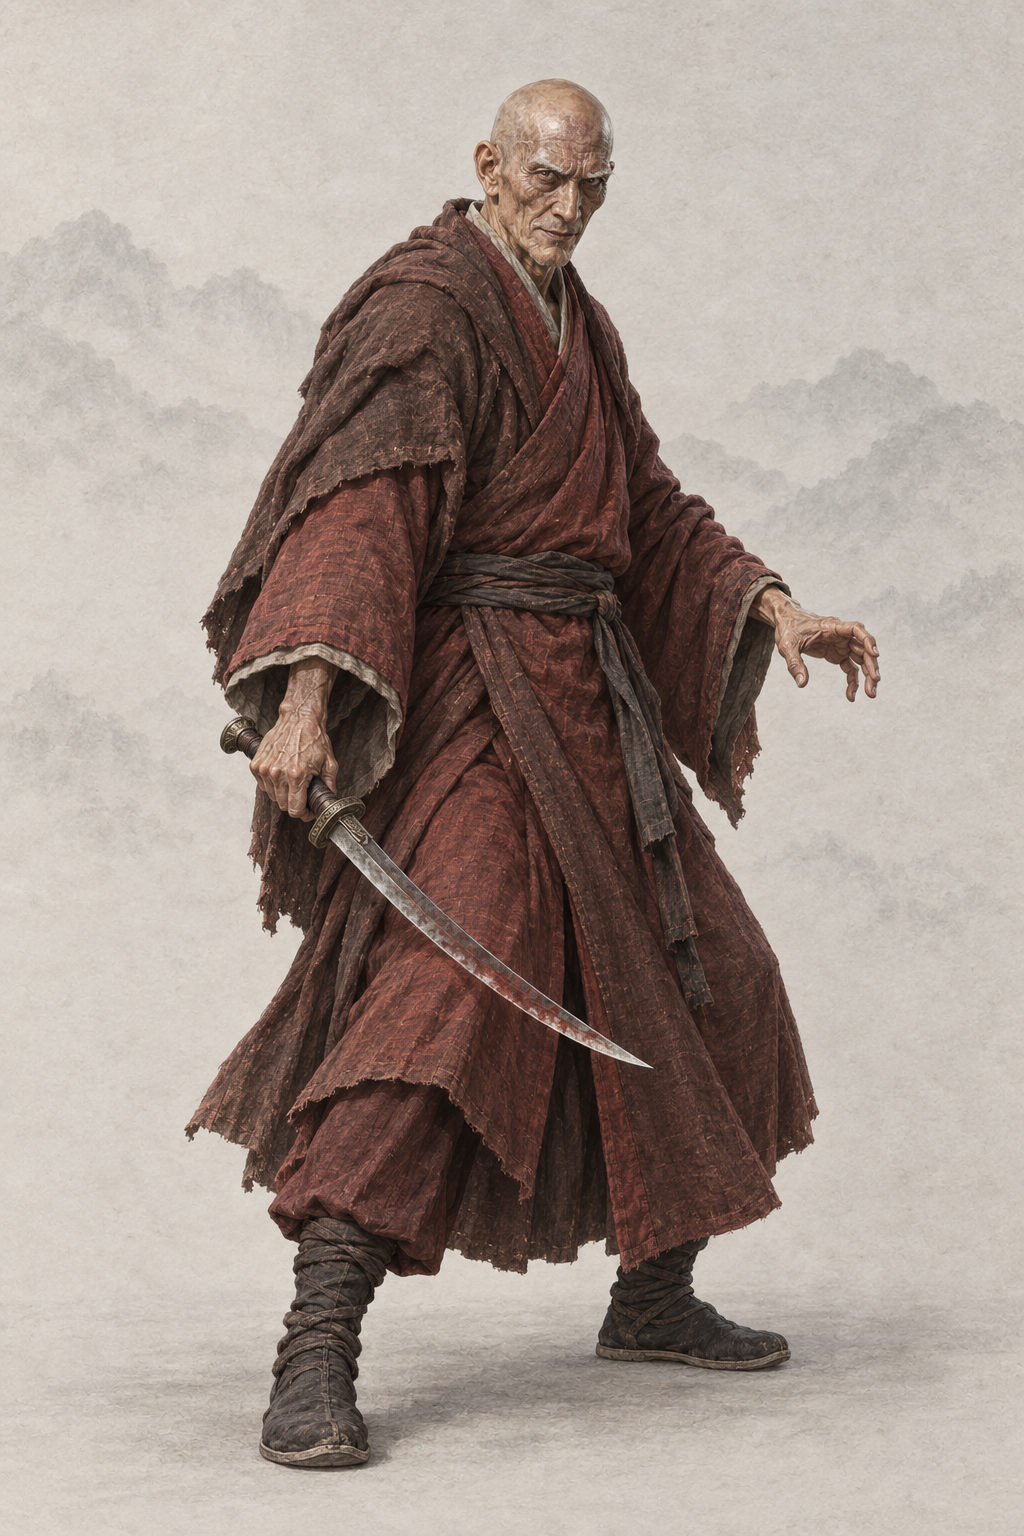
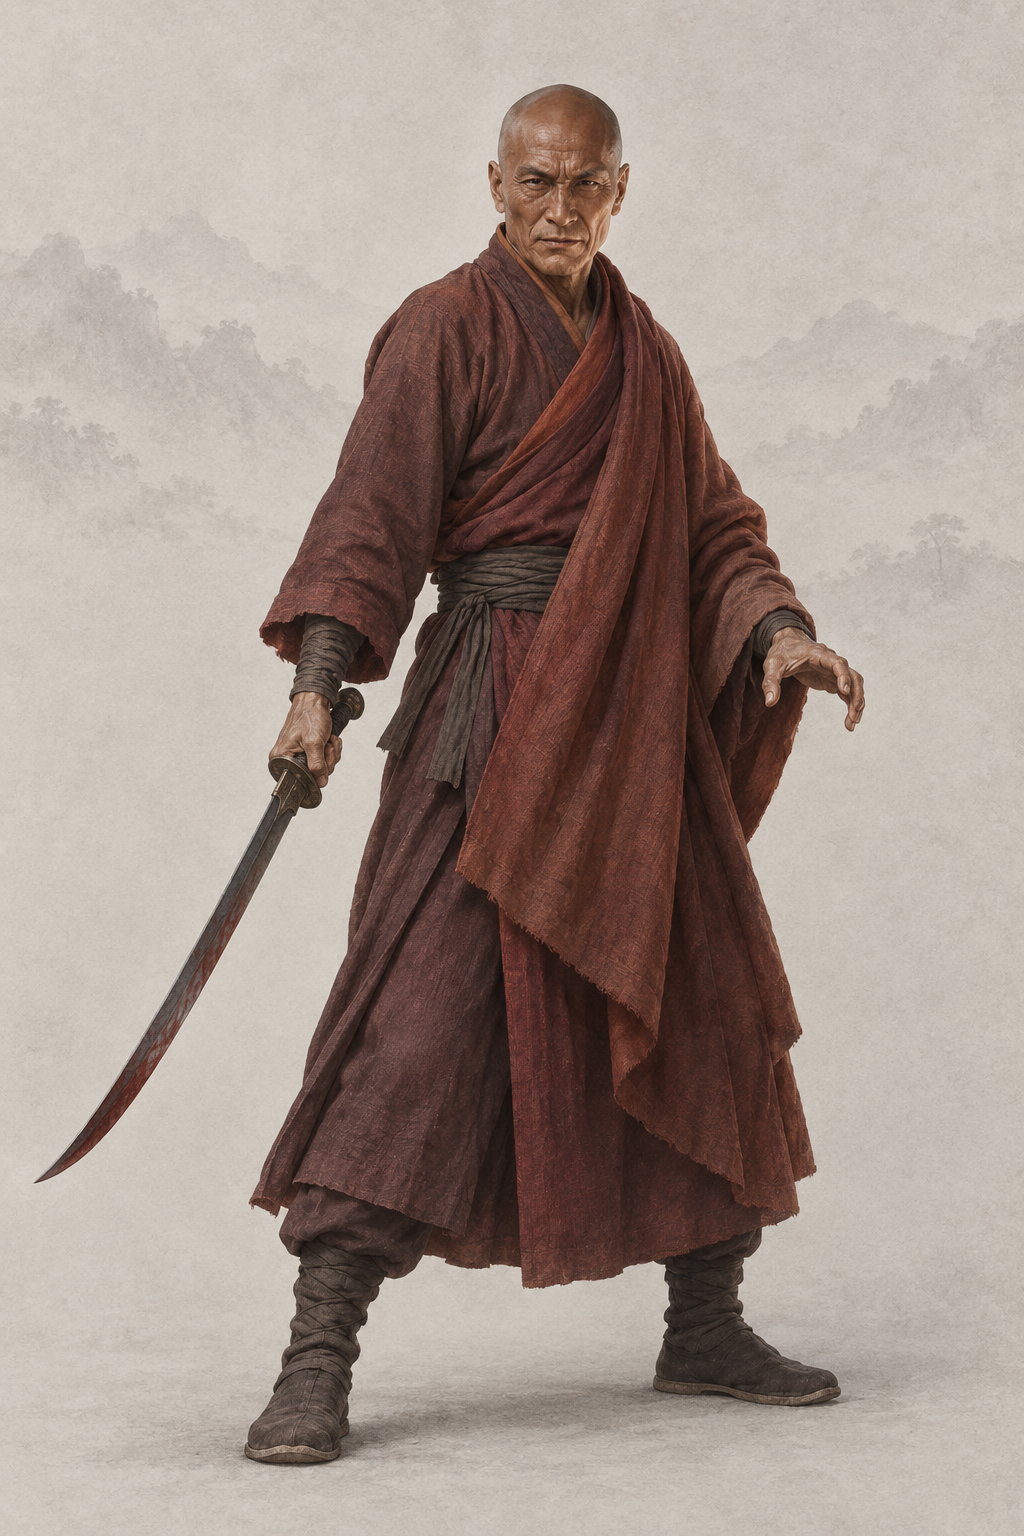
assets(character): por_npc_xuedaolaozu__ch09_elder_snow_base 血刀老祖（codex · AR-32 经典剧照重出）
2004 年《连城诀》电视剧剧照 1 张 + 基线；提示词写回「## Gemini 提示词」，上一版留作历史，frontmatter 加 classic_ref。

Changed region(s): [[0.0312, 0.0312, 0.875, 0.9688], [0.0625, 0.1875, 0.25, 0.2812], [0.0312, 0.2812, 0.0625, 0.3125]]

diff --git a/assets/default/prompts/characters/ch09-liancheng/npc_xuedaolaozu.md b/assets/default/prompts/characters/ch09-liancheng/npc_xuedaolaozu.md
@@ -13,9 +13,16 @@ references:
     use: 当前仓库 manifest 为 candidate（未通过审批）；只参考纸底、光线、笔触和设色，不沿用脸、体型、服饰或道具
 status: redo
 redo_reason: "主检出 10-02 新出的候选以 2004 年剧集剧照为面部身份参考，有复刻真人面容的风险（本轮口径禁止）；造型（藏边老僧、暗红僧袍、薄血刀）合格，保留造型，只把脸换成文字设计的面容。"
-reference_upload:
-- assets/default/baseline/character/male/ref_npc_linghuchong__ch05_base01.png
 codex_prompt_rev: 2026-10-02
+classic_ref:
+  version: "2004 年《连城诀》电视剧"
+  stills:
+  - ".agents/coord/imagegen-reference/identity-20261001/liancheng/two-source-20261002T0713-ch03_four_gap_inventory/xuedaolaozu-sina2024.jpg"
+  note: "剧照缩到长边 1024 的 JPEG 上传，放在两张同性别基线之前（AR-32）；xuedaolaozu-sina2024.jpg 裁切框 (0.35, 0.05, 0.92, 0.88)"
+reference_upload:
+- .agents/coord/imagegen-reference/identity-20261001/liancheng/two-source-20261002T0713-ch03_four_gap_inventory/xuedaolaozu-sina2024.jpg
+- assets/default/baseline/character/male/ref_npc_linghuchong__ch05_base01.png
+- assets/default/baseline/character/male/ref_npc_xiaofeng__ch01_base01.png
 ---
 
 <!-- full-coverage-import:current-policy:v1 -->
@@ -28,6 +35,25 @@ codex_prompt_rev: 2026-10-02
 # 血刀老祖 · 《连城诀》（ch09）
 
 ## Gemini 提示词
+
+> 2026-10-02 AR-32 经典剧照重出（6 号出图员，codex exec · image_gen 出图）：上传该角色经典影视版剧照 1 张（2004 年《连城诀》电视剧：xuedaolaozu-sina2024.jpg）在前、两张同性别基线在后。剧照只借鉴发型、服饰、配色、标志道具、气质与面部特征，重新绘制成项目画风，不照搬照片的构图、光影和姿势；人物一律成年；清代男子按清制剃额留辫。提示词里不写演员名。上一版提示词保留在下一节作历史。
+
+```text
+生成一张 2:3 竖幅全身人物立绘：单人、单一视角、完整全身——头顶、双手、双脚和手中器物的两端都在画面内，四周留出自然空白；人物站姿自然，身体基本朝向正面，头部端正（不歪头、不仰不俯），镜头平视。
+【参考图】随提示词上传 3 张参考图。第 1 张参考图是该角色经典影视造型的剧照：借鉴其发型、服饰、配色、标志道具、气质和面部特征，让人一眼认出是这个角色；但必须重新绘制成项目画风，不要照片质感，不要照搬剧照的构图、光影、背景和姿势，也不要做成照片修图。剧照与下文文字不一致的地方（年龄、所处阶段、帽饰与衣装细节、手中器物），以下文文字为准；画中人一律是成年人。最后两张是本项目画风基线：画风、用色、光线、质感和暖浅灰纸底加淡水墨背景以它们为准。
+【画风】写实手绘古风人物插画，与本项目写实武侠角色立绘同一画风，像功力深厚的画师用细腻笔触画出的真实人物。手绘插画质感，不是 CG 渲染：不要过度光滑的皮肤、完美对称的五官、塑料高光、过度锐利的发丝；保留自然的笔触和细微不完美。皮肤有真实质感——细小毛孔、细纹、晒痕和自然的左右不对称，不磨皮、不油亮；头发是一缕缕自然的发丝和少量碎发；布料看得出经纬纹理、厚薄和自然垂坠的褶皱，带穿用过的轻微旧化，但完整不破烂；整体设色低饱和、沉稳；柔和的自然光从左上方照来，明暗过渡自然，不打舞台光、轮廓光或美颜柔光。不是照片，不是三维渲染，不是动漫或游戏 CG，也不是油画（没有厚涂笔触和画布纹理）。
+【背景】不透明的暖浅灰色纸底，只在远处有极淡的水墨远山和薄雾，大面积留白；人物与背景明暗分明、轮廓边缘干净完整（后续要自动抠图），水墨和纸纹只在背景里，不侵入人物和衣服；脚下只有很淡的一点接触阴影。
+【人物】血刀老祖，《连城诀》中血刀门的掌门，在雪谷与众人交锋的时期——本书的主要首领。
+【年龄与体态】约七十岁的藏边老僧，身材高瘦而筋骨精悍，颈侧筋络与手上骨节明显，老而不衰，蓄势待发。
+【经典造型】要一眼认出是血刀老祖——光头、深陷的凶眼、暗赭红僧袍、手中薄而微弯的暗红血刀，狡诈残忍、身手矫健的老魔头。
+【面容】脸以剧照为底子——保留剧照里这个角色的脸型、眉眼、鼻唇的比例关系和神气，画成成年人；光头；窄长脸，颧骨高耸，两颊凹陷；眉毛稀疏花白；眼窝深陷，一双细眼凶光闪烁，透着狡诈与残忍；鼻梁高而带钩；嘴唇薄，嘴角挂着收敛的冷笑；满脸深刻的皱纹，肤色是高原日晒的深褐色，粗糙真实。
+【服饰】藏边僧人的暗赭红色厚僧袍，外披褐红色披裹，里面穿着遮住身体的保暖长衣，厚布裤和朴素的靴子。
+【道具与姿态】右手握唯一一柄血刀——刀身窄而薄、微弯，刃口泛暗红色，不发光、不滴血，刀尖斜指侧下方；左手微张作试探；两膝微屈、重心压低，身体略侧。
+【不要】画面里不要任何文字、题款、印章、签名、水印、台标、边框、分格或多视图；不要第二个人；不要幼态（童颜、娃娃脸、婴儿肥、儿童或少年身材、大头小身）；不要塑料感皮肤、磨皮美颜、网红脸（尖下巴大眼高鼻的模板脸）、过度对称、浓妆、偶像式打光、蜡像感；不要照片质感、三维渲染或动漫大眼；不要歪头、斜镜头；不要多指、缺指（设定的伤残除外）、手与器物粘连或悬空；汉式交领必须右衽（穿着者的左襟压在右襟上），不要左衽（设定为少数民族服制的除外），不要水平镜像；不要现代物品、日式服饰或日本刀、发光特效、法阵或能量光。不要照片或照片修图的质感，不要照搬剧照的构图、光影、背景和姿势，不要剧照里的字幕、台标和水印。不要照片感；不要发光或滴血的刀；不要兽相怪物脸；不要辫子或帽子。不要照搬剧照里的橙黄天空、大刀和挥刀姿势。
+【画风基线】随提示词上传的参考图里，最后两张是本项目的立绘画风基线：只参考它们的画风、用色、光线、质感和暖浅灰纸底加淡水墨的背景处理，整体画风必须与它们一致——精细写实的数字手绘插画，不是油画，不要厚涂笔触和画布纹理。基线图只取画风，不取长相：不要照搬基线图里人物的长相、年龄、发型、服饰和姿势。
+```
+
+## 上一版 Gemini 提示词（2026-10-02 文字版；AR-32 经典剧照重出前，历史，不再用于出图）
 
 > 2026-10-02 Codex 人物线 2 号（AR-31）：在审核组稿上补一行「经典形象」（借鉴公认经典造型的发式、装束、配色、标志道具与气质，只写文字，不写演员名、不上传剧照），并补去 AI 化要求。本轮出图用下面第一个代码块；审核组原稿保留在其后的「审核组原稿」小节作历史。
 
